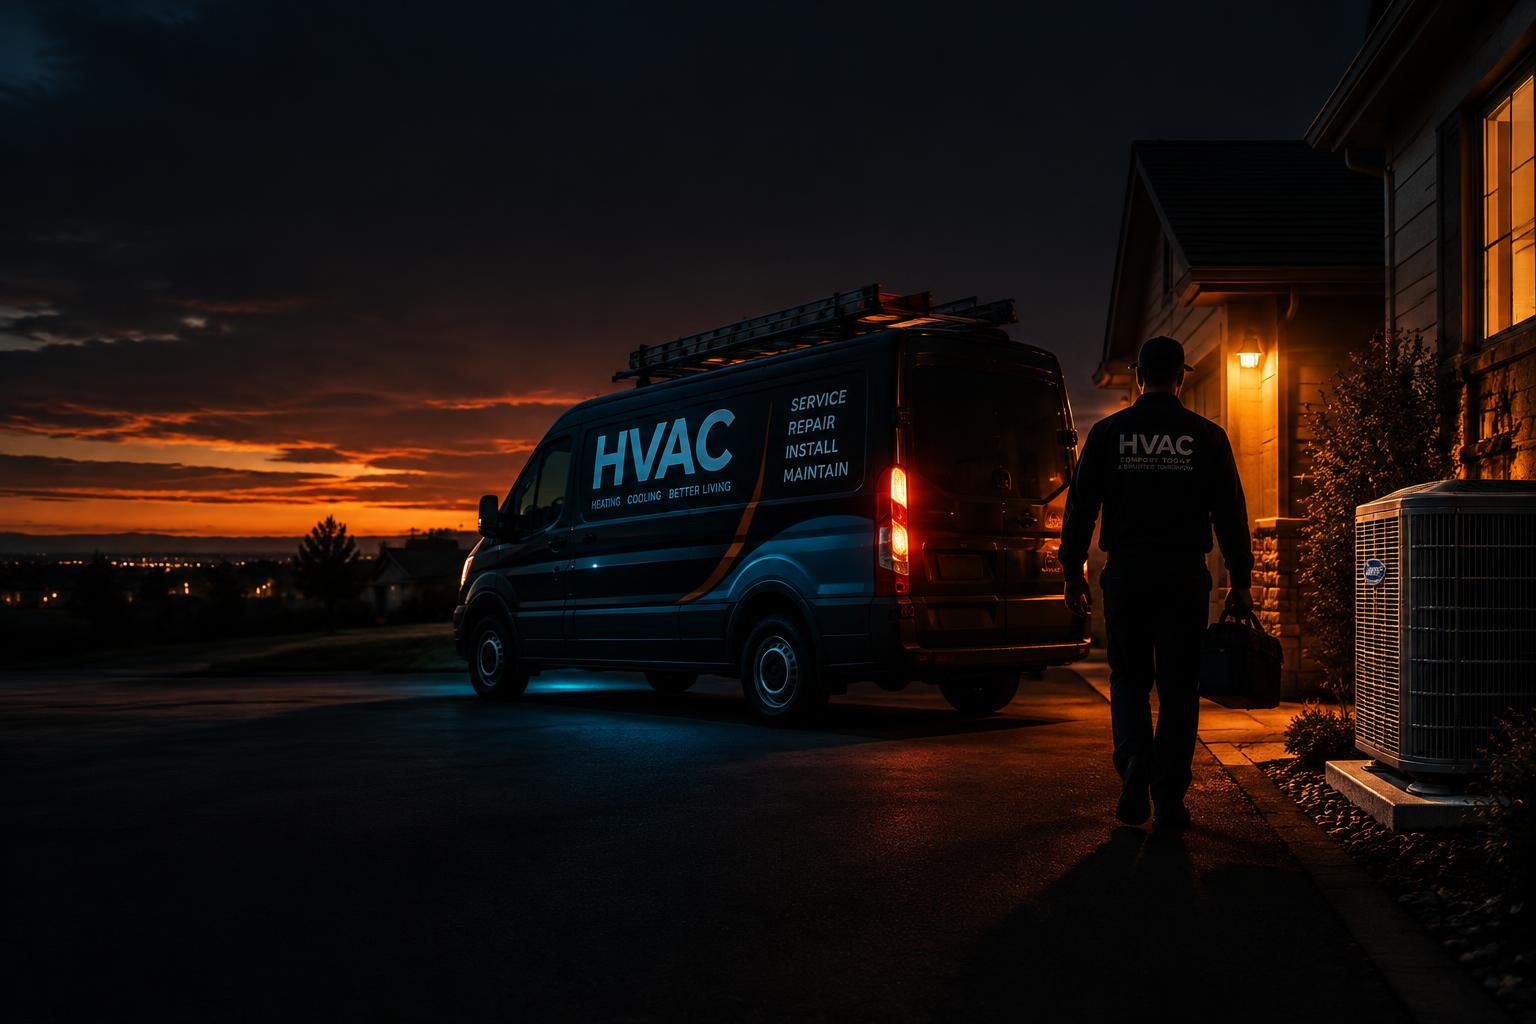
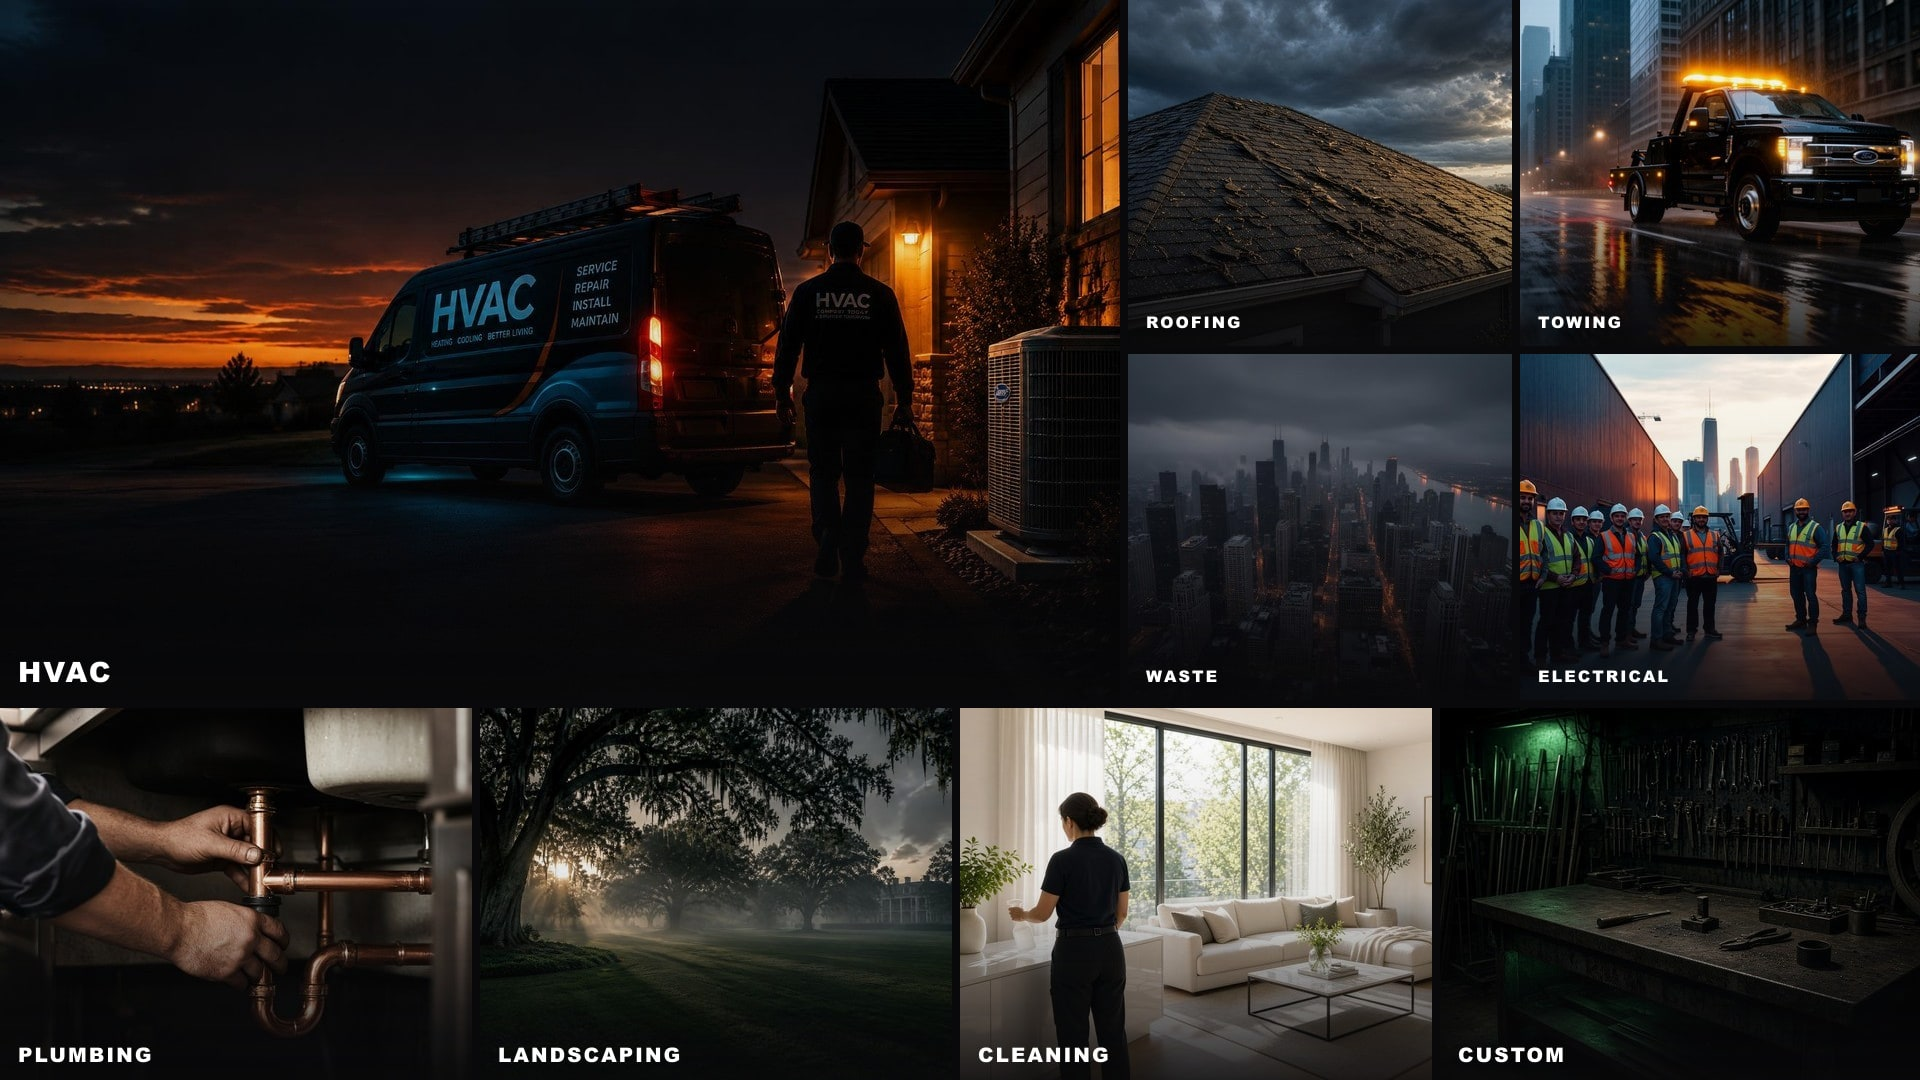
Elevate the demos CTA with a nine-trade bento collage.

diff --git a/src/components/sections/VideoGate.tsx b/src/components/sections/VideoGate.tsx
@@ -21,7 +21,7 @@ const VideoGate = () => {
           body: "Nine live trade engines. Open one and click through like a real job.",
           cta: "Open demos",
           previewAlt:
-            "Night service call — the kind of trade shop engine you can test-drive live",
+            "Collage of nine live trade engines: HVAC, plumbing, electrical, waste, roofing, towing, landscaping, cleaning, and custom",
         }
       : {
           titleLead: "Pruebe nuestros",
@@ -29,7 +29,7 @@ const VideoGate = () => {
           body: "Nueve motores de oficios en vivo. Abra uno y haga clic como en un trabajo real.",
           cta: "Abrir demos",
           previewAlt:
-            "Llamada de servicio nocturna — el tipo de motor de oficio que puede probar en vivo",
+            "Collage de nueve motores en vivo: HVAC, plomería, eléctrico, residuos, techado, grúas, paisajismo, limpieza y a medida",
         };
 
   return (
@@ -66,12 +66,11 @@ const VideoGate = () => {
             <img
               src="/images/demo-preview.jpg"
               alt={copy.previewAlt}
-              className="absolute inset-0 h-full w-full object-cover object-[center_35%] transition-transform duration-700 ease-out group-hover:scale-[1.04]"
+              className="absolute inset-0 h-full w-full object-cover object-center transition-transform duration-700 ease-out group-hover:scale-[1.03]"
             />
-            {/* Atmosphere + CD brand wash — keeps the photo, kills nested-UI noise */}
-            <div className="absolute inset-0 bg-gradient-to-t from-zinc-950 via-zinc-950/45 to-zinc-950/15" />
-            <div className="absolute inset-0 bg-gradient-to-r from-zinc-950/70 via-transparent to-transparent" />
-            <div className="absolute inset-0 opacity-0 transition-opacity duration-500 group-hover:opacity-100 bg-[radial-gradient(ellipse_at_bottom_left,_rgba(16,185,129,0.28),_transparent_55%)]" />
+            {/* Light scrim so the collage stays readable and the CTA pops */}
+            <div className="absolute inset-0 bg-gradient-to-t from-zinc-950/90 via-zinc-950/20 to-transparent" />
+            <div className="absolute inset-0 opacity-0 transition-opacity duration-500 group-hover:opacity-100 bg-[radial-gradient(ellipse_at_bottom_left,_rgba(16,185,129,0.22),_transparent_55%)]" />
 
             <div className="absolute inset-x-0 bottom-0 flex items-end justify-between gap-4 p-5 sm:p-8 md:p-10">
               <span className="inline-flex min-h-[48px] items-center gap-2 rounded-xl bg-[#10b981] px-6 py-3.5 text-sm font-black uppercase tracking-wider text-zinc-950 shadow-[0_12px_40px_-8px_rgba(16,185,129,0.65)] transition-transform duration-300 group-hover:translate-y-[-2px] group-hover:bg-[#0ea672]">
